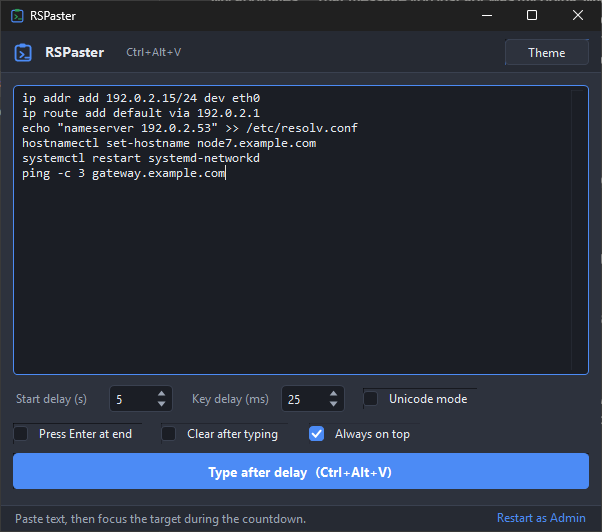
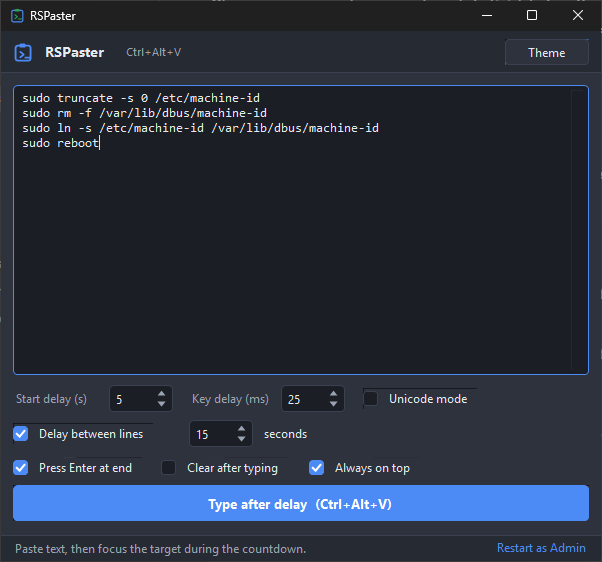
Add a configurable delay between lines
Multi-line command lists sent to a slow or busy machine lost every line
after the first: the next line was typed into a shell still working on the
previous command, so it went nowhere. A checkbox and a seconds field now
hold after each Enter before the next line is typed.

The wait is taken only between lines, never after the last one, where it
would just postpone the finish. It is slept in 100 ms slices rather than one
long Thread.Sleep, because a 15 second sleep leaves Esc, Cancel and the
hotkey looking dead for the whole of it; cancelling a 30 second wait returns
immediately. The status bar and the tray tooltip count the wait down and name
the line about to be typed, since the window is often hidden while this runs.

TypeText now takes a TypeOptions object. Seven parameters was past the point
where a positional call site could be read.

diff --git a/RSPaster.cs b/RSPaster.cs
@@ -38,8 +38,11 @@ namespace RSPaster
         bool _syncing;
         SpinBox _startDelay;
         SpinBox _keyDelay;
+        SpinBox _lineDelay;
         Label _lblStart;
         Label _lblKey;
+        Label _lblLineUnit;
+        ThemedCheck _chkLineDelay;
         ThemedCheck _chkUnicode;
         ThemedCheck _chkEnterAtEnd;
         ThemedCheck _chkClearAfter;
@@ -75,8 +78,8 @@ namespace RSPaster
             Text = _baseTitle;
             ClientSize = new Size(
                 _settings.WindowWidth >= 520 ? _settings.WindowWidth : 600,
-                _settings.WindowHeight >= 420 ? _settings.WindowHeight : 500);
-            MinimumSize = new Size(520, 460);
+                _settings.WindowHeight >= 500 ? _settings.WindowHeight : 530);
+            MinimumSize = new Size(520, 500);
             StartPosition = FormStartPosition.CenterScreen;
             KeyPreview = true;
             TopMost = _settings.AlwaysOnTop;
@@ -224,7 +227,7 @@ namespace RSPaster
 
             _bottom = new Panel();
             _bottom.Dock = DockStyle.Bottom;
-            _bottom.Height = 122;
+            _bottom.Height = 152;
             _bottom.Padding = new Padding(0, 10, 0, 0);
 
             _lblStart = MakeLabel("Start delay (s)", 0, 16);
@@ -235,16 +238,34 @@ namespace RSPaster
             _keyDelay = new SpinBox(0, 500, _settings.KeyDelayMs);
             _keyDelay.SetBounds(268, 10, 64, 27);
 
-            _chkUnicode = MakeCheck("Unicode mode", 350, 13, _settings.UnicodeMode);
             ToolTip tip = new ToolTip();
+
+            _chkUnicode = MakeCheck("Unicode mode", 350, 13, _settings.UnicodeMode);
             tip.SetToolTip(_chkUnicode,
                 "Send every character as a unicode event instead of scancodes.\r\n" +
                 "Use this if the typed output comes out garbled, which means the\r\n" +
                 "target's keyboard layout differs from yours.");
 
-            _chkEnterAtEnd = MakeCheck("Press Enter at end", 0, 48, _settings.EnterAtEnd);
-            _chkClearAfter = MakeCheck("Clear after typing", 148, 48, _settings.ClearAfter);
-            _chkOnTop = MakeCheck("Always on top", 296, 48, _settings.AlwaysOnTop);
+            _chkLineDelay = MakeCheck("Delay between lines", 0, 48, _settings.LineDelayEnabled);
+            _lineDelay = new SpinBox(0, 600, _settings.LineDelaySeconds);
+            _lineDelay.SetBounds(176, 45, 64, 27);
+            _lineDelay.Enabled = _settings.LineDelayEnabled;
+            _lblLineUnit = MakeLabel("seconds", 248, 51);
+            _chkLineDelay.CheckedChanged += delegate(object s, EventArgs e)
+            {
+                _lineDelay.Enabled = _chkLineDelay.Checked;
+            };
+            string lineDelayHelp =
+                "Wait after each Enter before typing the next line.\r\n" +
+                "For slow or busy machines where a command needs time to\r\n" +
+                "finish before the next one can be entered. Cancel stays\r\n" +
+                "responsive during the wait.";
+            tip.SetToolTip(_chkLineDelay, lineDelayHelp);
+            tip.SetToolTip(_lineDelay, lineDelayHelp);
+
+            _chkEnterAtEnd = MakeCheck("Press Enter at end", 0, 82, _settings.EnterAtEnd);
+            _chkClearAfter = MakeCheck("Clear after typing", 148, 82, _settings.ClearAfter);
+            _chkOnTop = MakeCheck("Always on top", 296, 82, _settings.AlwaysOnTop);
             _chkOnTop.CheckedChanged += delegate(object s, EventArgs e)
             {
                 TopMost = _chkOnTop.Checked;
@@ -253,7 +274,7 @@ namespace RSPaster
             _btnGo = new ThemedButton();
             _btnGo.Primary = true;
             _btnGo.Font = new Font("Segoe UI", 9.75F, FontStyle.Bold);
-            _btnGo.SetBounds(0, 78, 100, 36);
+            _btnGo.SetBounds(0, 110, 100, 36);
             _btnGo.Anchor = AnchorStyles.Left | AnchorStyles.Right | AnchorStyles.Top;
             _btnGo.Click += delegate(object s, EventArgs e) { StartOrCancel(); };
 
@@ -262,6 +283,9 @@ namespace RSPaster
             _bottom.Controls.Add(_lblKey);
             _bottom.Controls.Add(_keyDelay);
             _bottom.Controls.Add(_chkUnicode);
+            _bottom.Controls.Add(_chkLineDelay);
+            _bottom.Controls.Add(_lineDelay);
+            _bottom.Controls.Add(_lblLineUnit);
             _bottom.Controls.Add(_chkEnterAtEnd);
             _bottom.Controls.Add(_chkClearAfter);
             _bottom.Controls.Add(_chkOnTop);
@@ -541,6 +565,8 @@ namespace RSPaster
         {
             _settings.StartDelaySeconds = _startDelay.Value;
             _settings.KeyDelayMs = _keyDelay.Value;
+            _settings.LineDelayEnabled = _chkLineDelay.Checked;
+            _settings.LineDelaySeconds = _lineDelay.Value;
             _settings.EnterAtEnd = _chkEnterAtEnd.Checked;
             _settings.ClearAfter = _chkClearAfter.Checked;
             _settings.AlwaysOnTop = _chkOnTop.Checked;
@@ -625,25 +651,27 @@ namespace RSPaster
 
             string text = _txtInput.Text;
             if (_chkEnterAtEnd.Checked) text += "\n";
-            int keyDelay = _keyDelay.Value;
-            bool unicodeMode = _chkUnicode.Checked;
+
+            TypeOptions options = new TypeOptions();
+            options.PerKeyDelayMs = _keyDelay.Value;
+            options.UnicodeMode = _chkUnicode.Checked;
+            options.LineDelayMs = _chkLineDelay.Checked ? _lineDelay.Value * 1000 : 0;
+            options.Cancelled = delegate() { return _cancelRequested; };
+            options.Progress = delegate(int done, int total)
+            {
+                Report(string.Format(CultureInfo.InvariantCulture,
+                    "Typing... {0}/{1} characters", done, total));
+            };
+            options.LineWait = delegate(int msLeft, int nextLine, int totalLines)
+            {
+                Report(string.Format(CultureInfo.InvariantCulture,
+                    "Waiting {0}s before line {1} of {2}. Esc cancels.",
+                    (msLeft + 999) / 1000, nextLine, totalLines));
+            };
 
             Thread worker = new Thread(delegate()
             {
-                TypeResult result = KeySender.TypeText(text, keyDelay, unicodeMode,
-                    delegate() { return _cancelRequested; },
-                    delegate(int done, int total)
-                    {
-                        try
-                        {
-                            BeginInvoke(new Action(delegate()
-                            {
-                                SetStatus(string.Format(CultureInfo.InvariantCulture,
-                                    "Typing... {0}/{1} characters", done, total));
-                            }));
-                        }
-                        catch (InvalidOperationException) { }   // form closed mid-run
-                    });
+                TypeResult result = KeySender.TypeText(text, options);
                 try
                 {
                     BeginInvoke(new Action(delegate() { FinishTyping(result); }));
@@ -706,6 +734,17 @@ namespace RSPaster
             _trayType.Text = _state == RunState.Idle ? "Type after delay" : "Cancel";
         }
 
+        // Status from the typing thread. Marshals to the UI thread and tolerates
+        // the window being closed mid-run.
+        void Report(string text)
+        {
+            try
+            {
+                BeginInvoke(new Action(delegate() { SetStatus(text); }));
+            }
+            catch (InvalidOperationException) { }
+        }
+
         // The tray tooltip carries the same text as the status bar, because the
         // window is often hidden while the countdown runs.
         void SetStatus(string text)
@@ -719,6 +758,8 @@ namespace RSPaster
             _txtInput.ReadOnly = !enabled;
             _startDelay.Enabled = enabled;
             _keyDelay.Enabled = enabled;
+            _chkLineDelay.Enabled = enabled;
+            _lineDelay.Enabled = enabled && _chkLineDelay.Checked;
             _chkEnterAtEnd.Enabled = enabled;
             _chkClearAfter.Enabled = enabled;
             _chkUnicode.Enabled = enabled;

diff --git a/KeySender.cs b/KeySender.cs
@@ -129,6 +129,19 @@ namespace RSPaster
         public bool Cancelled;
     }
 
+    public class TypeOptions
+    {
+        public int PerKeyDelayMs = 15;
+        // Pause after each Enter before the next line is typed, for consoles
+        // where a command needs time to finish before the next can be entered.
+        public int LineDelayMs;
+        public bool UnicodeMode;
+
+        public Func<bool> Cancelled;
+        public Action<int, int> Progress;          // characters done, total
+        public Action<int, int, int> LineWait;     // ms remaining, next line, total lines
+    }
+
     public static class KeySender
     {
         const ushort VK_SHIFT = 0x10;
@@ -142,13 +155,24 @@ namespace RSPaster
         // what VM/IPMI/VNC consoles listen for; characters needing AltGr or
         // absent from the layout fall back to a KEYEVENTF_UNICODE event. In
         // unicode mode every character is sent as a unicode event.
-        public static TypeResult TypeText(string text, int perKeyDelayMs, bool unicodeMode,
-                                          Func<bool> cancelled, Action<int, int> progress)
+        public static TypeResult TypeText(string text, TypeOptions o)
         {
             text = text.Replace("\r\n", "\n").Replace("\r", "\n");
             IntPtr hkl = ForegroundLayout();
             TypeResult result = new TypeResult();
             int total = text.Length;
+
+            Func<bool> cancelled = o.Cancelled;
+            Action<int, int> progress = o.Progress;
+            bool unicodeMode = o.UnicodeMode;
+            int perKeyDelayMs = o.PerKeyDelayMs;
+
+            // A trailing newline is the "press Enter at end" one and does not
+            // start another line, so it must not inflate the count.
+            int totalLines = 1;
+            for (int i = 0; i < total; i++)
+                if (text[i] == '\n' && i < total - 1) totalLines++;
+            int lineNo = 1;
 
             for (int i = 0; i < total; i++)
             {
@@ -197,8 +221,41 @@ namespace RSPaster
                     progress(i + 1, total);
                 if (perKeyDelayMs > 0)
                     Thread.Sleep(perKeyDelayMs);
+
+                // Hold after the Enter that ends a line, but not after the last
+                // one: nothing follows it, so waiting only delays the finish.
+                if (c == '\n' && o.LineDelayMs > 0 && i < total - 1)
+                {
+                    lineNo++;
+                    if (!Wait(o.LineDelayMs, cancelled, o.LineWait, lineNo, totalLines))
+                    {
+                        result.Cancelled = true;
+                        break;
+                    }
+                }
             }
             return result;
+        }
+
+        // Sleeps in short slices so Cancel stays responsive: a line delay is
+        // measured in seconds, and one long Thread.Sleep would leave Esc and
+        // the hotkey looking dead for the whole of it. Returns false if the run
+        // was cancelled while waiting.
+        static bool Wait(int totalMs, Func<bool> cancelled,
+                         Action<int, int, int> tick, int lineNo, int totalLines)
+        {
+            const int SLICE = 100;
+            int waited = 0;
+            while (waited < totalMs)
+            {
+                if (cancelled != null && cancelled()) return false;
+                if (tick != null && waited % 1000 == 0)
+                    tick(totalMs - waited, lineNo, totalLines);
+                int slice = Math.Min(SLICE, totalMs - waited);
+                Thread.Sleep(slice);
+                waited += slice;
+            }
+            return true;
         }
 
         static bool SendVk(ushort vk, bool shift, IntPtr hkl)

diff --git a/Settings.cs b/Settings.cs
@@ -24,6 +24,8 @@ namespace RSPaster
         public string Theme = "classic";
         public int StartDelaySeconds = 3;
         public int KeyDelayMs = 15;
+        public bool LineDelayEnabled;
+        public int LineDelaySeconds = 15;
         public bool EnterAtEnd;
         public bool ClearAfter;
         public bool AlwaysOnTop = true;
@@ -65,6 +67,8 @@ namespace RSPaster
             s.Theme = Str(kv, "theme", s.Theme);
             s.StartDelaySeconds = Int(kv, "startDelaySeconds", s.StartDelaySeconds, 0, 60);
             s.KeyDelayMs = Int(kv, "keyDelayMs", s.KeyDelayMs, 0, 500);
+            s.LineDelayEnabled = Bool(kv, "lineDelayEnabled", s.LineDelayEnabled);
+            s.LineDelaySeconds = Int(kv, "lineDelaySeconds", s.LineDelaySeconds, 0, 600);
             s.EnterAtEnd = Bool(kv, "enterAtEnd", s.EnterAtEnd);
             s.ClearAfter = Bool(kv, "clearAfter", s.ClearAfter);
             s.AlwaysOnTop = Bool(kv, "alwaysOnTop", s.AlwaysOnTop);
@@ -84,6 +88,8 @@ namespace RSPaster
                 Write(sb, "theme", Theme);
                 Write(sb, "startDelaySeconds", StartDelaySeconds.ToString(CultureInfo.InvariantCulture));
                 Write(sb, "keyDelayMs", KeyDelayMs.ToString(CultureInfo.InvariantCulture));
+                Write(sb, "lineDelayEnabled", LineDelayEnabled ? "true" : "false");
+                Write(sb, "lineDelaySeconds", LineDelaySeconds.ToString(CultureInfo.InvariantCulture));
                 Write(sb, "enterAtEnd", EnterAtEnd ? "true" : "false");
                 Write(sb, "clearAfter", ClearAfter ? "true" : "false");
                 Write(sb, "alwaysOnTop", AlwaysOnTop ? "true" : "false");

diff --git a/README.md b/README.md
@@ -38,6 +38,7 @@ Then:
 |---|---|---|
 | Start delay | 3 s | Countdown before typing begins, so you can focus the target. |
 | Key delay | 15 ms | Pause between keystrokes. Raise it to 30 - 50 ms if a slow BMC drops characters. |
+| Delay between lines | off, 15 s | Waits after each Enter before typing the next line, for machines where a command needs time to finish before the next can be entered. |
 | Press Enter at end | off | Appends a newline so the last line is submitted. |
 | Clear after typing | off | Wipes the box once typing finishes. |
 | Always on top | on | Keeps the window above the console. |
@@ -67,6 +68,15 @@ screen area first: their surrounding toolbars do not forward keys to the guest.
 **Raise the key delay over slow links.** BMC and IPMI KVM consoles drop
 keystrokes sent faster than they can process. Missing characters almost always
 mean the key delay is too low.
+
+**Key delay and line delay solve different problems.** Key delay is about the
+console keeping up with the typing. Line delay is about the *machine* keeping
+up with the work: on a slow or busy box, a command has to finish before the
+next one can be entered, and without a pause the following line is typed into a
+shell that is not ready and is simply lost. Set it to comfortably more than the
+slowest command in the list. The status bar counts the wait down, and Esc, the
+hotkey and Cancel all stay responsive throughout, so an over-long delay costs
+nothing but the time you choose to let run.
 
 **Elevation.** Windows blocks a normal process from sending input to a window
 running at higher privilege. If the target is elevated and nothing arrives, use

diff --git a/CHANGELOG.md b/CHANGELOG.md
@@ -2,6 +2,19 @@
 
 ## Unreleased
 
+**Added a delay between lines.** Multi-line command lists sent to a slow or
+busy machine lost every line after the first: the next line was typed into a
+shell still working on the previous command, so it went nowhere. A checkbox and
+a seconds field now hold after each Enter before the next line is typed. The
+wait is only taken between lines, never after the last one, where it would just
+postpone the finish.
+
+The wait is slept in 100 ms slices rather than one long `Thread.Sleep`, because
+a 15 second sleep leaves Esc, Cancel and the hotkey looking dead for the whole
+of it. Cancelling a 30 second wait returns immediately. The status bar and the
+tray tooltip count the remaining seconds down and name the line about to be
+typed, since the window is often hidden while this runs.
+
 **First working version.** A GUI that types multi-line text into the focused
 window through `SendInput`, for consoles that ignore the clipboard: hypervisor
 VM consoles, VNC, IPMI/BMC KVM, and UAC prompts on the normal desktop. Runs
